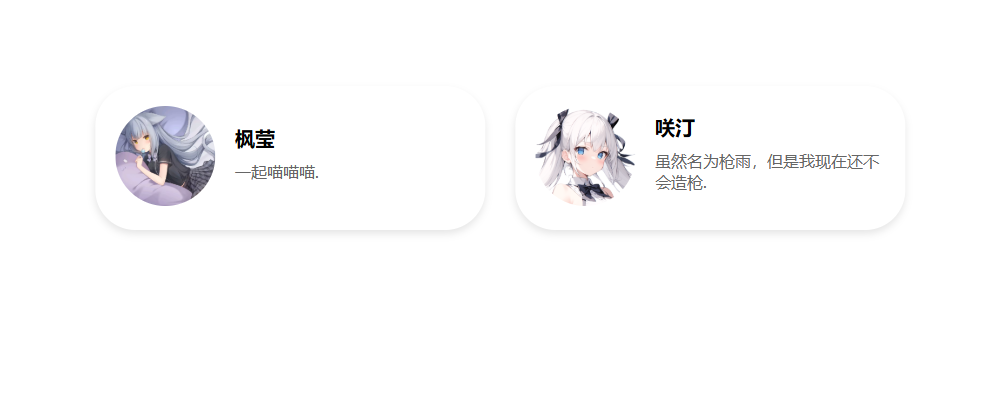
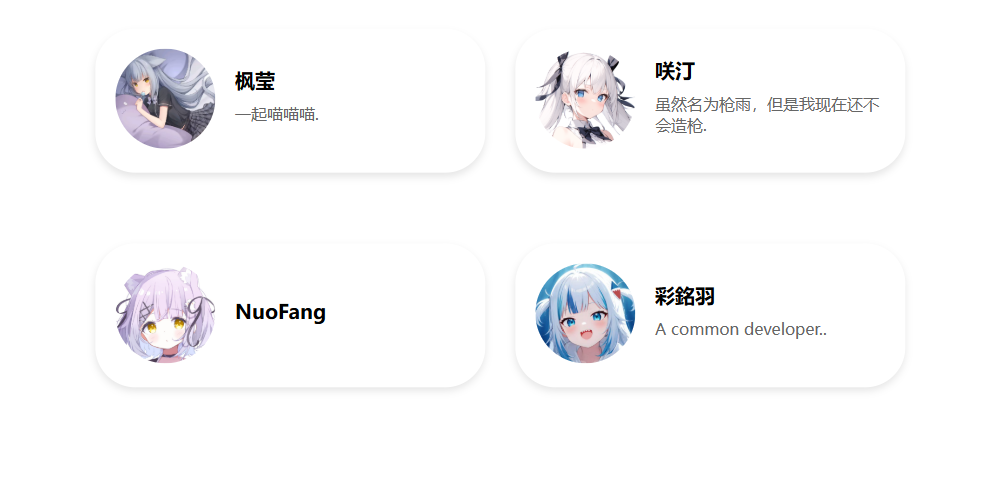
喵喵喵

diff --git a/friends.js b/friends.js
@@ -4,14 +4,14 @@ const puppeteer = require('puppeteer');
     const browser = await puppeteer.launch();
     const page = await browser.newPage();
 
-    // 设置视口大小，确保内容完全显示
-    await page.setViewport({ width: 1000, height: 400 });
+    // 设置视口大小，确保内容完全显示（每行两个卡片，总宽度约 710px + 边距）
+    await page.setViewport({ width: 1000, height: 500 });
 
     await page.setContent(`
     <!DOCTYPE html>
     <html>
     <body>
-      <div style="display: flex; gap: 30px; justify-content: center; align-items: center; min-height: 300px;">
+      <div style="display: flex; flex-wrap: wrap; gap: 30px; justify-content: center; align-items: center; min-height: 400px;">
         <div style="display: flex; align-items: center; background: #ffffff; border-radius: 40px; padding: 20px; width: 350px; box-shadow: 0 4px 8px rgba(0,0,0,0.1);">
           <div style="margin-right: 20px;">
             <a href="https://github.com/YumeYukal">
@@ -35,12 +35,36 @@ const puppeteer = require('puppeteer');
             <p style="margin: 10px 0; color: #666; font-size: 16px;">虽然名为枪雨，但是我现在还不会造枪.</p>
           </div>
         </div>
+
+        <div style="display: flex; align-items: center; background: #ffffff; border-radius: 40px; padding: 20px; width: 350px; box-shadow: 0 4px 8px rgba(0,0,0,0.1);">
+          <div style="margin-right: 20px;">
+            <a href="https://github.com/NuoFang6">
+              <img src="https://github.com/NuoFang6.png" alt="NuoFang" width="100" height="100" style="border-radius: 50%;">
+            </a>
+          </div>
+          <div style="text-align: left;">
+            <h3 style="margin: 0; font-size: 20px;">NuoFang</h3>
+            <p style="margin: 10px 0; color: #666; font-size: 16px;"></p>
+          </div>
+        </div>
+
+        <div style="display: flex; align-items: center; background: #ffffff; border-radius: 40px; padding: 20px; width: 350px; box-shadow: 0 4px 8px rgba(0,0,0,0.1);">
+          <div style="margin-right: 20px;">
+            <a href="https://github.com/Cai-Ming-Yu">
+              <img src="https://github.com/Cai-Ming-Yu.png" alt="Cai-Ming-Yu" width="100" height="100" style="border-radius: 50%;">
+            </a>
+          </div>
+          <div style="text-align: left;">
+            <h3 style="margin: 0; font-size: 20px;">彩銘羽</h3>
+            <p style="margin: 10px 0; color: #666; font-size: 16px;">A common developer..</p>
+          </div>
+        </div>
       </div>
     </body>
     </html>
   `);
 
-    // 调整截图尺寸（宽度 800px，高度 400px）
-    await page.screenshot({ path: 'friends_layout.png', width: 800, height: 400 });
+    // 调整截图尺寸（宽度 1000px，高度 500px）
+    await page.screenshot({ path: 'friends_layout.png', width: 1000, height: 500 });
     await browser.close();
 })();

diff --git a/README.md b/README.md
@@ -1,7 +1,6 @@
 ![](https://img.nightrainmilkyway.cn/img/20250202225615973.webp)
 ---
 
-
 <div align="center">
 
 # 💫 梦之魔女的魔法笔记
